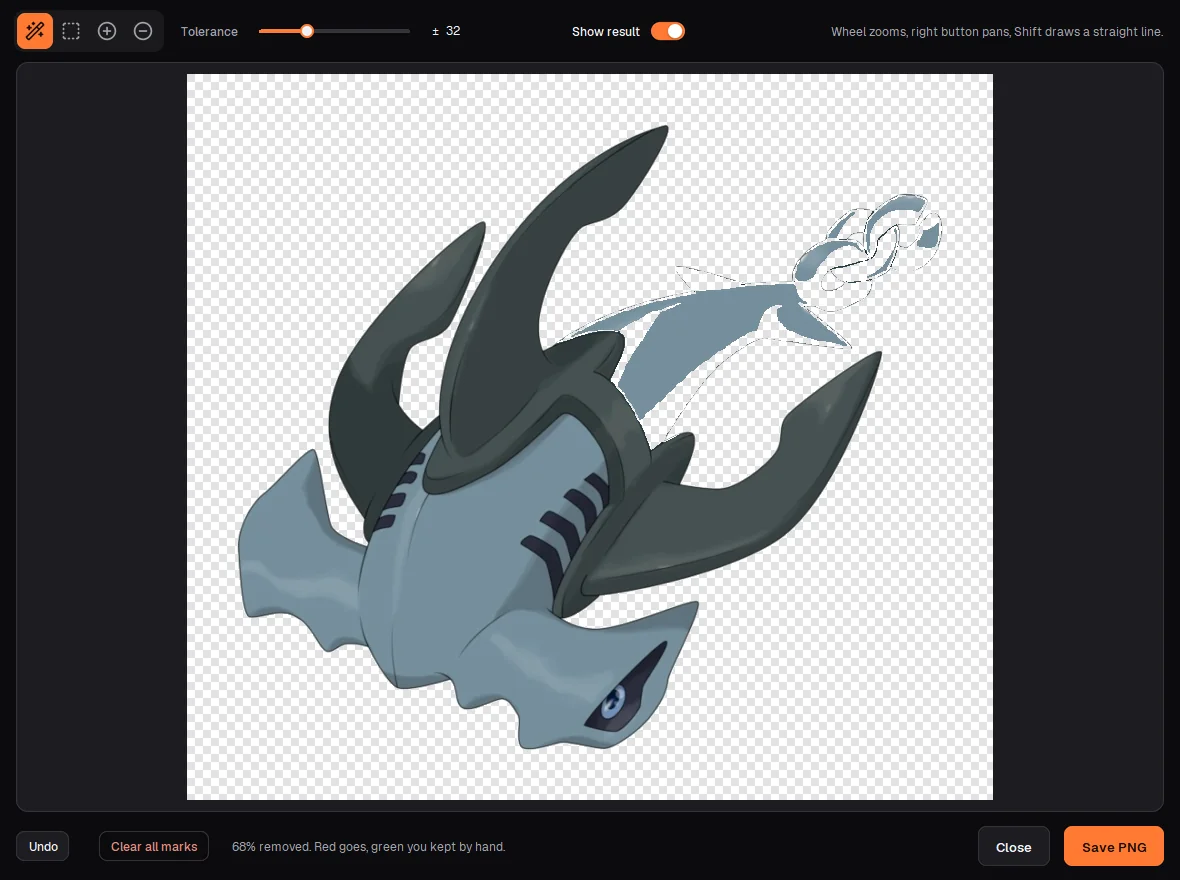
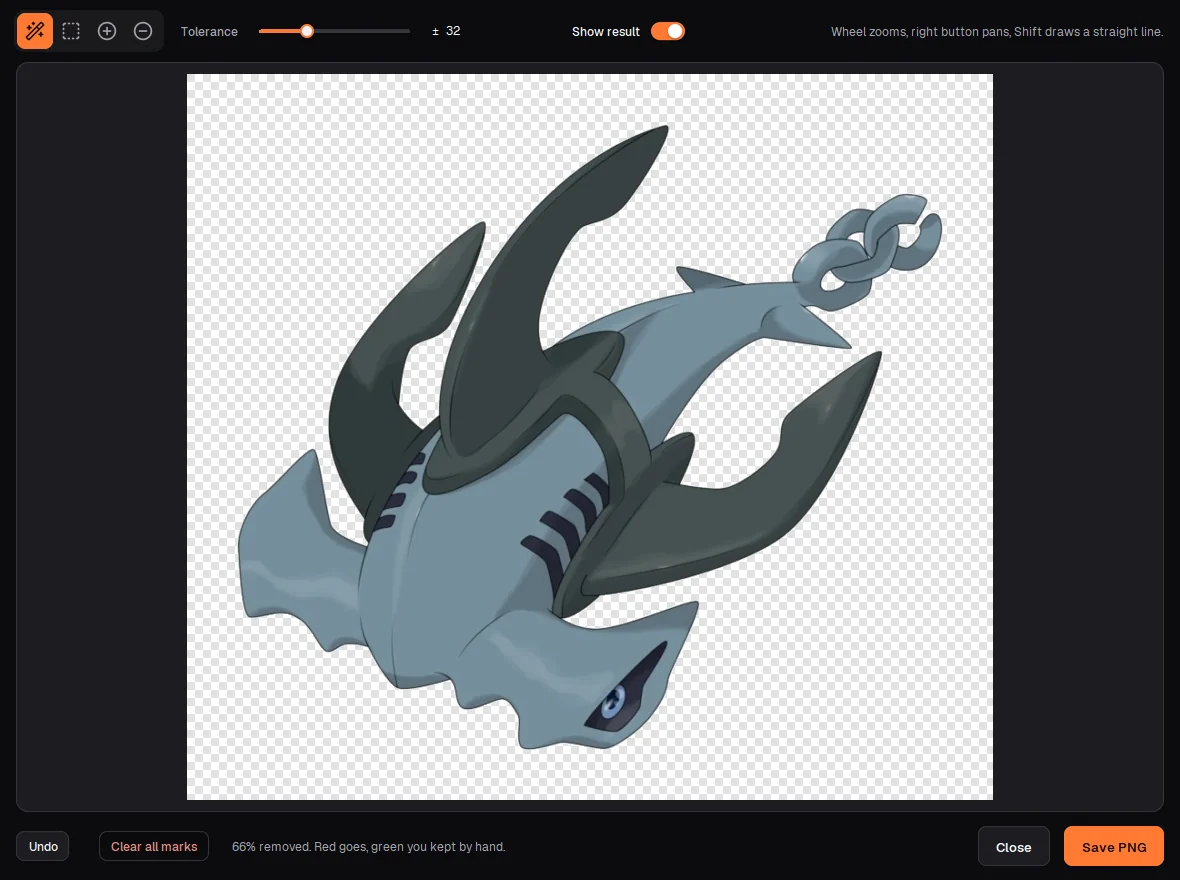
Sito da PNG-Stand-Maker @ d7fc276

Changed region(s): [[0.5186, 0.2148, 0.7932, 0.5216], [0.5186, 0.3375, 0.5797, 0.4295], [0.5797, 0.3068, 0.6407, 0.3375]]

diff --git a/index.html b/index.html
@@ -223,13 +223,13 @@
 
     <div class="tiles" data-reveal>
       <article class="tile">
-        <div class="tile-img"><img src="assets/ui/cutout.webp?v=5" width="1180" height="880" loading="lazy" alt="The Remove background window: the background gone, the subject on a chequerboard"></div>
+        <div class="tile-img"><img src="assets/ui/cutout.webp?v=6" width="1180" height="880" loading="lazy" alt="The Remove background window: the background gone, the subject on a chequerboard"></div>
         <h3>Remove background</h3>
         <p class="note">A wand, a box and two brushes. Here three clicks took the background out,
         the gaps inside the chain included.</p>
       </article>
       <article class="tile">
-        <div class="tile-img"><img src="assets/ui/retouch.webp?v=5" width="1180" height="880" loading="lazy" alt="The Touch up window: eraser and pencil on the traced line art"></div>
+        <div class="tile-img"><img src="assets/ui/retouch.webp?v=6" width="1180" height="880" loading="lazy" alt="The Touch up window: eraser and pencil on the traced line art"></div>
         <h3>Touch up</h3>
         <p class="note">An eraser and a pencil for the line art, before it becomes a solid. A stray
         line goes, a heart goes on.</p>
@@ -577,6 +577,6 @@
   </div>
 </dialog>
 
-<script src="main.js?v=29"></script>
+<script src="main.js?v=30"></script>
 </body>
 </html>
